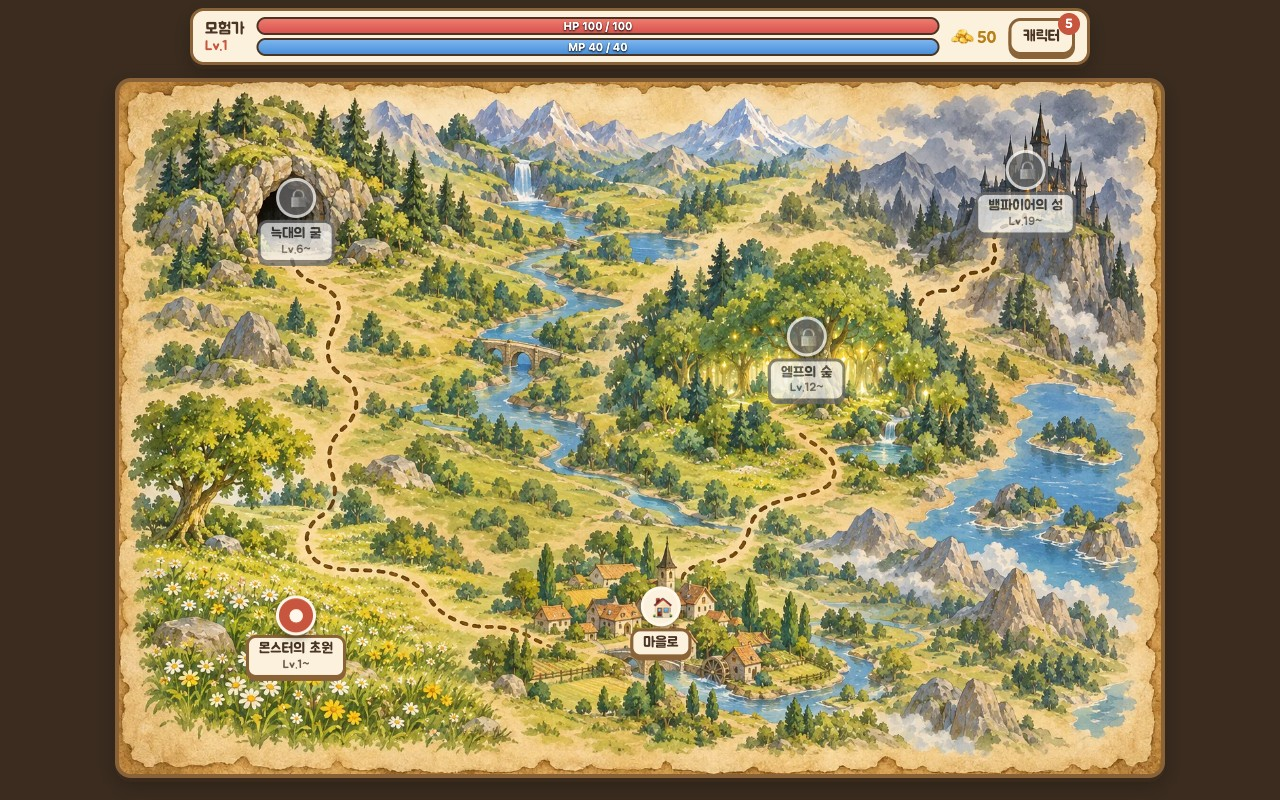
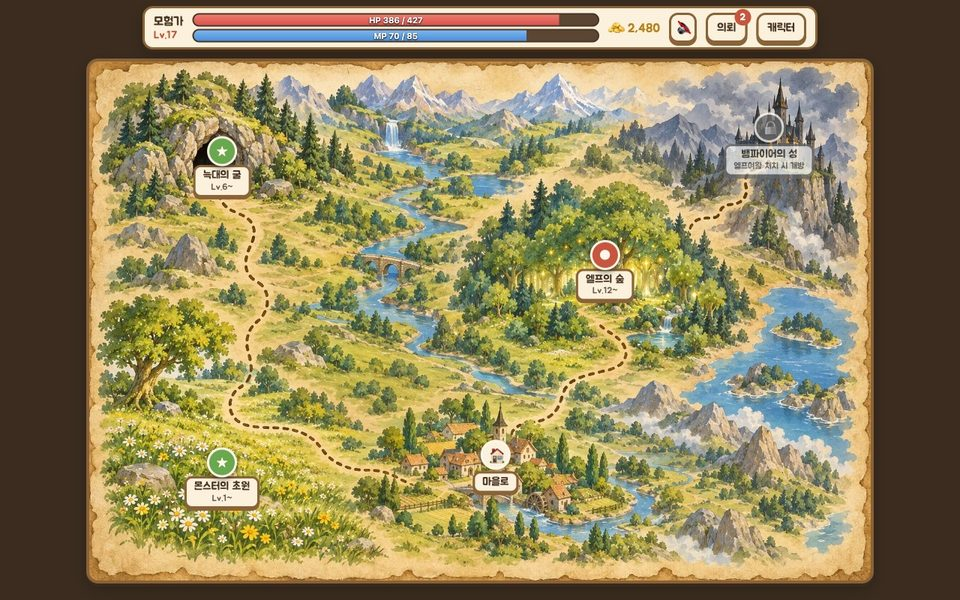
docs: README 최신화 (전직, 사건, 의뢰, 장비, 엔딩 이후, 난이도 테스트, 디버그 모드)
- 스크린샷 4장을 현재 화면으로 교체
- 게임 소개를 탐험/전투/성장/마을/엔딩 이후로 재구성
- 구조, 난이도 측정 방식과 현재 수치, 디버그 모드, 제작 방법 추가

diff --git a/README.md b/README.md
@@ -4,49 +4,112 @@
 
 **▶ 플레이: https://earth.devtrail.kr/** (설치 없이 브라우저에서, 모바일 지원)
 
-| 전투 | 지도 |
+| 전투 | 마을 |
 |---|---|
-| ![전투 화면](docs/screenshot-battle.jpg) | ![지도 화면](docs/screenshot-map.jpg) |
+| ![전투 화면](docs/screenshot-battle.jpg) | ![마을 화면](docs/screenshot-town.jpg) |
+| **캐릭터와 전직** | **지도** |
+| ![캐릭터 창](docs/screenshot-char.jpg) | ![지도 화면](docs/screenshot-map.jpg) |
 
 ## 게임 소개
 
-밤이 점점 길어지는 별 '행성 : 지구'에서, 몬스터를 쓰러뜨리며 성장해 뱀파이어 로드를 물리치는 이야기입니다.
+밤이 점점 길어지는 별 '행성 : 지구'에서, 몬스터를 쓰러뜨리며 성장해 뱀파이어 로드를 물리치는 이야기입니다. 엔딩까지 전투 100회 안팎입니다.
 
-- **지역 4곳 · 몬스터 16종** — 몬스터의 초원, 늑대의 굴, 엘프의 숲, 뱀파이어의 성. 보스를 쓰러뜨리면 다음 지역이 열립니다.
-- **턴제 전투** — 공격 / 마법 / 방어 / 포션 / 도망. 몬스터마다 연속 공격, 흡혈, 중독, 힘 모으기 같은 패턴이 있고, 힘을 모으는 공격은 방어로 받아내야 합니다. 마법은 화상·빙결·기절·저항 관통 등 저마다 효과가 다릅니다.
-- **탐험** — 탐색 중 보물상자, 떠돌이 상인, 다친 여행자 같은 사건을 만나 선택을 내립니다. 의뢰 게시판의 의뢰를 달성하면 골드와 스텟 포인트를 받고, 보스는 전용 장비를 떨어뜨립니다.
-- **성장과 전직** — 레벨업으로 얻은 포인트를 힘·지력·방어·민첩·치명·운에 분배. Lv.10부터 찍은 스텟에 따라 전사·마법사·도적으로 전직하면 모습이 바뀌고 고유 기술을 얻습니다. 힘 위주 전사, 지력 위주 마법사, 치명·민첩 위주 도적 어느 쪽으로도 엔딩까지 갈 수 있습니다.
-- **마을** — 물약상점, 마법상점(마법 5종), 대장간(무기·방어구·장신구 30종 + 강화), 여관, 슬롯머신.
-- **엔딩 이후** — 성 지하의 숨은 보스, 그리고 성장을 유지한 채 더 강한 몬스터와 싸우는 다음 회차.
-- **자동 저장** — 브라우저(`localStorage`)에 저장되어 새로고침해도 이어집니다. 세이브 코드로 다른 기기에 옮길 수 있습니다.
+### 탐험
+
+- **지역 4곳** — 몬스터의 초원, 늑대의 굴, 엘프의 숲, 뱀파이어의 성. 지역의 몬스터를 12마리 쓰러뜨리면 보스에게 도전할 수 있고, 보스를 잡으면 다음 지역이 열립니다.
+- **사건 6종** — 탐색 중 보물상자, 맑은 샘물, 떠돌이 상인, 수상한 덤불, 다친 여행자, 오래된 석상을 만나 선택을 내립니다. 상자를 열었더니 몬스터가 튀어나오기도 합니다.
+- **의뢰 14개** — 지역별 사냥과 보스 토벌, 한 대도 맞지 않고 이기기 등. 보상은 골드, 스텟 포인트, 포션입니다.
+
+### 전투
+
+- **행동** — 공격 / 직업 기술 / 마법 / 방어 / 포션 / 도망.
+- **몬스터 17종** — 연속 공격, 강타, 흡혈, 중독, 기절, 힘 모으기 같은 패턴이 있습니다. 힘을 모은 공격은 피할 수 없어서 방어로 받아내야 합니다.
+- **마법 5종** — 파이어볼(화상), 윈드커터(저항 관통), 아이스스피어(적 공격 약화), 라이트닝볼트(기절), 메테오(확정 화상).
+
+### 성장
+
+- **스텟** — 레벨업으로 얻은 포인트를 힘·지력·방어·민첩·치명·운에 분배합니다. 골드를 내고 초기화할 수 있습니다.
+- **전직** — Lv.10부터 찍은 스텟에 따라 전직하면 모습이 바뀌고 고유 기술을 얻습니다. 골드를 내고 바꿀 수 있습니다.
+
+  | 직업 | 조건 | 상시 효과 | 기술 |
+  |---|---|---|---|
+  | 전사 | 힘 25 | 최대 HP +10% | 강타 — 적 방어 절반 무시 |
+  | 마법사 | 지력 25 | 마법 MP 소모 -20% | 명상 — MP 회복, 다음 마법 1.5배 |
+  | 도적 | 민첩 + 치명 25 | 회피 +10% | 급소 찌르기 — 확정 치명타, 맹독 |
+
+- **장비 30종** — 무기 12, 방어구 11, 장신구 7. 대장간에서 +10까지 강화합니다. 보스는 처음 쓰러뜨릴 때 전용 장비를 떨어뜨립니다.
+
+### 마을
+
+물약상점, 마법상점, 대장간, 여관, 슬롯머신.
+
+### 엔딩 이후
+
+- **숨은 보스** — 엔딩을 보면 성 지하에서 무언가 깨어납니다.
+- **다음 회차** — 레벨·스텟·장비는 그대로 두고 세계를 처음으로 되돌립니다. 몬스터가 훨씬 강해집니다.
+
+### 저장
+
+브라우저(`localStorage`)에 자동 저장되어 새로고침해도 이어집니다. 캐릭터 창의 "세이브 옮기기"에서 코드를 복사하면 다른 기기에서 이어서 할 수 있습니다.
 
 ## 기술 구성
 
 - TypeScript + React + Vite, 서버 없는 정적 사이트 (GitHub Pages)
 - 테스트: Vitest
-- 이미지: AI 이미지 생성(Codex CLI)으로 만든 손그림 동화풍 일러스트 96장
-- 소리: 효과음은 Web Audio 합성, 배경음악 9곡은 Suno로 생성
+- 이미지: AI 이미지 생성(Codex CLI)으로 만든 손그림 동화풍 일러스트 95장
+- 소리: 효과음은 Web Audio로 합성, 배경음악 9곡은 Suno로 생성
 
 ```
 src/
-  game/        순수 TypeScript 게임 로직 (React·DOM에 의존하지 않음)
-    engine.ts    reduce(state, action, rng) — 유일한 상태 전이 함수
-    rules.ts     피해·확률·성장 공식
-    data/        몬스터, 지역, 아이템, 스토리
-  ui/          React 화면. 상태를 그리고 액션을 보낼 뿐 규칙은 계산하지 않음
-  assets/      WebP 이미지 (파일명 = 데이터 id)
+  game/              순수 TypeScript 게임 로직 (React·DOM에 의존하지 않음)
+    engine.ts          reduce(state, action, rng) — 유일한 상태 전이 함수
+    rules.ts           피해·확률·성장 공식과 밸런스 상수
+    save.ts            세이브 직렬화, 옛 세이브 호환, 세이브 코드
+    bot.ts             테스트용 봇 (보통 플레이어처럼 플레이)
+    data/              몬스터, 지역, 아이템, 직업, 사건, 의뢰, 스토리
+  ui/                React 화면. 상태를 그리고 액션을 보낼 뿐 규칙은 계산하지 않음
+    screens/           타이틀, 마을, 지도, 지역, 전투, 상점, 캐릭터, 의뢰, 엔딩
+    sfx.ts, bgm.ts     효과음 합성, 배경음악 전환
+    Debug.tsx          디버그 패널
+  assets/            WebP 이미지와 배경음악 (파일명 = 데이터 id)
 ```
 
-로직과 화면을 분리했기 때문에 게임 전체를 브라우저 없이 테스트할 수 있습니다. 테스트에는 **보통 플레이어처럼 구는 봇이 처음부터 엔딩까지 플레이하는 시뮬레이션**이 있습니다. 세 가지 빌드로 여러 번 돌려 전투 수, 쓰러진 횟수, 보스 도전 횟수가 의도한 난이도 범위 안인지 자동으로 확인하므로, 수치를 바꿔도 게임이 너무 쉬워지거나 막히지 않았는지 바로 알 수 있습니다.
+### 로직과 화면의 분리
+
+게임의 모든 규칙은 `reduce(state, action, rng)` 하나를 거칩니다. 이 함수는 입력 상태를 바꾸지 않고 새 상태와 "이번에 일어난 일"의 목록을 돌려주고, 화면은 그 목록을 순서대로 연출할 뿐입니다. 난수도 인자로 받기 때문에 게임 전체를 브라우저 없이, 같은 결과로 재현하며 테스트할 수 있습니다.
+
+### 난이도를 테스트로 관리
+
+수치를 바꿀 때마다 직접 플레이해 보는 대신, **보통 플레이어처럼 구는 봇**이 엔딩까지 플레이합니다. 이 봇은 일부러 최선으로 움직이지 않습니다. 보스가 열리면 권장 레벨보다 낮아도 도전하고, 마을에는 가끔만 들르고, 힘 모으기를 열 번에 두 번 놓칩니다.
+
+전사·마법사·도적으로 12번씩 돌려 아래 범위를 벗어나면 테스트가 실패합니다.
+
+- 엔딩까지 전투 90~200회, 쓰러지는 횟수 1~8회
+- 보스는 평균 1.1~2.5번 도전에 잡히고, 어느 보스에서도 평균 3.5번을 넘지 않음
+- 숨은 보스와 2회차도 끝까지 갈 수 있음
+
+현재 측정값:
+
+| 직업 | 엔딩까지 전투 | 쓰러진 횟수 |
+|---|---|---|
+| 전사 | 101회 | 3.4회 |
+| 마법사 | 107회 | 4.8회 |
+| 도적 | 111회 | 6.8회 |
 
 ## 실행
 
 ```bash
 npm install
 npm run dev      # 개발 서버
-npm test         # 게임 로직 테스트
+npm test         # 게임 로직 테스트 + 난이도 측정 (32개)
 npm run build    # 타입 체크 + 프로덕션 빌드
 ```
+
+`main`에 푸시하면 GitHub Actions가 테스트와 빌드를 거쳐 배포합니다.
+
+### 디버그 모드
+
+주소에 `?debug`를 붙이면(`https://earth.devtrail.kr/?debug`) 화면 왼쪽 아래에 DEBUG 버튼이 생깁니다. 레벨·골드·직업 조작, 원하는 몬스터나 사건으로 바로 가기, 전투 중 상태 이상 걸기, 전체 이미지 갤러리가 들어 있습니다. 세이브를 따로 쓰므로 실제 진행에는 영향이 없습니다.
 
 ## 원작과의 관계
 
@@ -62,5 +125,14 @@ npm run build    # 타입 체크 + 프로덕션 빌드
 | MP는 레벨업 때만 회복 | 방어·승리·여관·MP 포션으로 회복 |
 | 사망 시 레벨 하락 (재레벨업으로 스텟 무한 획득) | 골드 일부만 잃음 |
 | 몬스터는 공격력 하나뿐, 보스를 잡아도 변화 없음 | 특수 패턴, 보스 처치로 지역 해금, 엔딩 |
+| 스토리·퀘스트 없음 | 사건, 의뢰, 전직, 엔딩, 다음 회차 |
+
+## 만든 방법
+
+기획과 방향은 사람이 정하고, 구현은 AI 도구로 진행했습니다.
+
+- **코드** — Claude Code. 기능별 브랜치와 PR로 작업하고, 브라우저 자동화로 화면을 확인했습니다.
+- **이미지** — Codex CLI의 이미지 생성. 기준 그림 한 장(`art/style-reference.png`)을 모든 요청에 함께 넘겨 화풍을 통일했습니다.
+- **배경음악** — Suno.
 
 개발 지침은 [CLAUDE.md](CLAUDE.md)에 있습니다.
